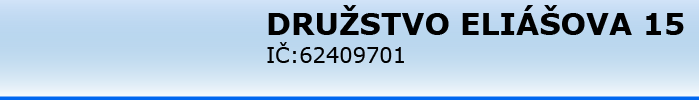
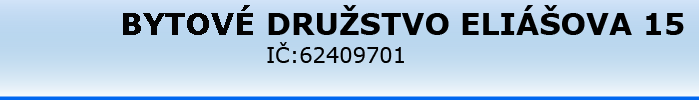
schuze druzstva
schuze druzstva

Changed region(s): [[0.1502, 0.06, 0.3605, 0.36]]

diff --git a/index.html b/index.html
@@ -1,4 +1,4 @@
-<?
+<?
 /*
  *	
  *	Page settings
@@ -24,31 +24,69 @@
 <body bgcolor='#ffffff'>
 
 <div id="zaklad">
-  <div id="sloup_levy">
+<div id="sloup_levy">
 	
-    <div style="margin:0px 0px 0px 0px;">
-      <img id="dum" src="obr/dumweb.png" alt="dum">
-    </div>
-  </div>
-
-  <div id="sloup_pravy">
-    <div style="margin:0px 0px 0px 0px;">
-      <img id="hlavicka" src="obr/hlavicka.png" alt="Družstvo ELIÁŠOVA 15">
-      <div class="nadpis">
+  <div style="margin:0px 0px 0px 0px;">
+<img id="dum" src="obr/dumweb.png" alt="dum">
+</div>
+	
 
 
 
+		
+</div>
+
+<div id="sloup_pravy">
+<div style="margin:0px 0px 0px 0px;">
+<img id="hlavicka" src="obr/hlavicka.png" alt="Družstvo ELIÁŠOVA 15">
+
+<div class="nadpis">
+	Pozvánka na členskou schůzi "BYTOVÉHO DRUŽSTVA ELIÁŠOVA 15"</br> 
+	(zveřejněno 30.11.2015)
+</br></br>
+Vážení členové družstva,</br></br>
+členská schůze "BYTOVÉHO DRUŽSTVA ELIÁŠOVA 15"</br> 
+se bude konat v pondělí 14.12.2015 v 18.30 hodin </br>
+v ulici Eliášova 479/15, 160 00 Praha 6.</br></br>
+
+Program schůze:
+</br></br>
+1. Kalkulace na opravu komínů a výmalby chodby,</br>
+2. NP I. Suterén – snížení měsíčního nájmu v době opravy kanalizace,</br>
+3. Převod bytů a podnájmy, návrh na zpoplatnění,</br>
+4. Nájemní smlouva,</br>
+5. Různé.</br></br> 
+
+
+Představenstvo BD</br>
 
 
 
 
 
-      </div>
-    </div>
-  </div>
+
+
+
+</div>
+
+</div>
+
+</div>
+
+
+
 	<div id="paticka">
-	   <a style="line-height:18px;color:white;margin:5px 200px 0px 20px" 
+	<a style="line-height:18px;color:white;margin:5px 200px 0px 20px" 
+
+    
+    
+    
+
+
+
 	</div>
+    
+	
 </div>
 </body>
 </html>
